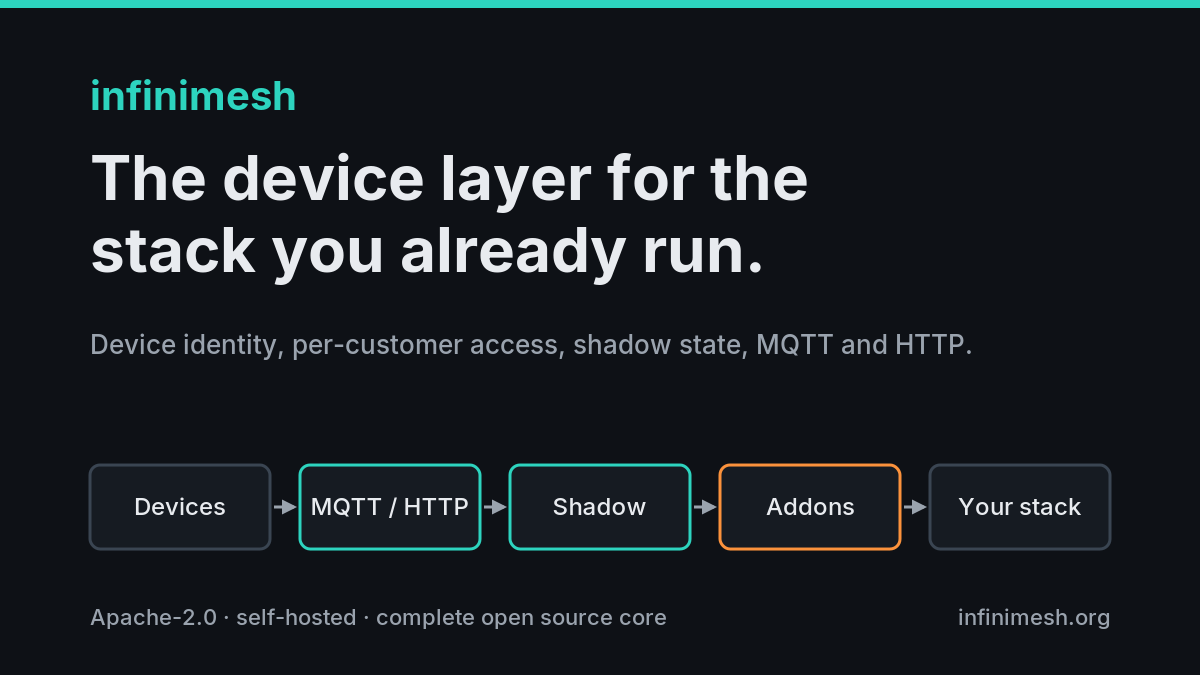
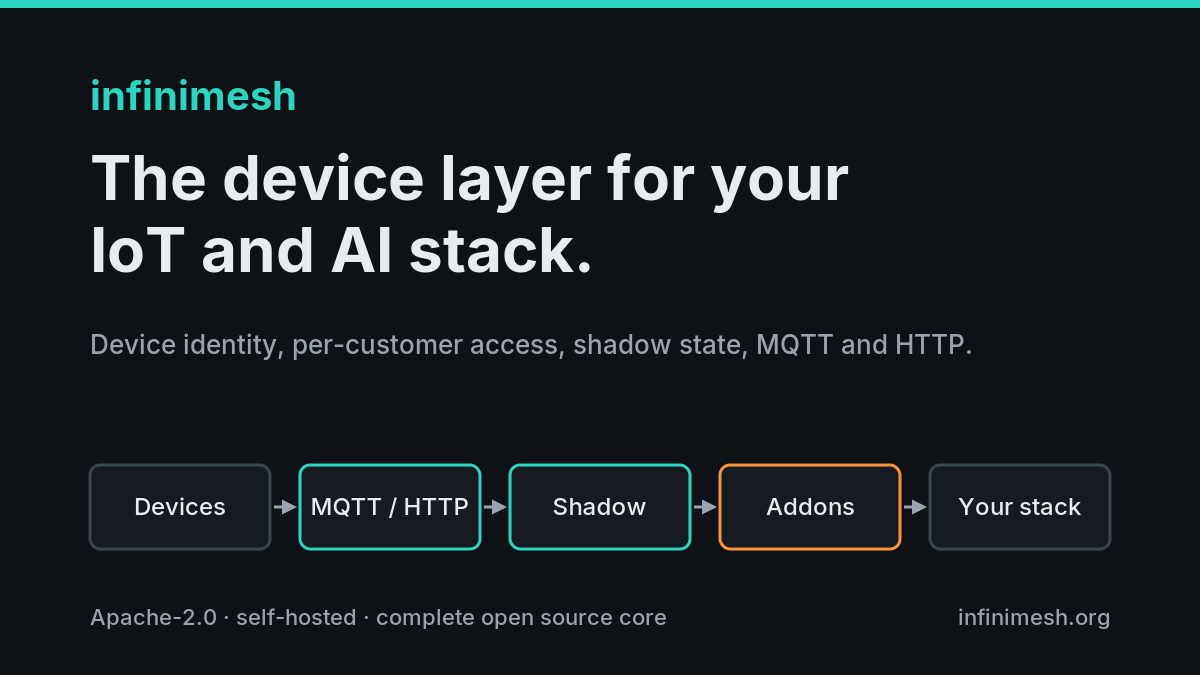
Position as the device layer for your IoT and AI stack, add AI ready section

Changed region(s): [[0.0617, 0.3111, 0.6475, 0.4356], [0.5858, 0.2178, 0.7092, 0.3111]]

diff --git a/index.html b/index.html
@@ -3,7 +3,7 @@
 <head>
 <meta charset="utf-8">
 <meta name="viewport" content="width=device-width, initial-scale=1">
-<title>infinimesh: the open source device layer for the stack you already run</title>
+<title>infinimesh: the open source device layer for your IoT and AI stack</title>
 <meta name="description" content="infinimesh is an Apache-2.0, self-hosted IoT backend in Go. Device identity, per-customer and per-partner access, shadow state, MQTT 3.1.1/5 and HTTP. Addons stream to Kafka, Postgres, InfluxDB, webhooks and more.">
 <link rel="icon" href="/favicon.ico" sizes="any">
 <link rel="icon" href="/favicon.png" type="image/png">
@@ -12,22 +12,22 @@
 <meta name="color-scheme" content="light dark">
 <meta property="og:type" content="website">
 <meta property="og:site_name" content="infinimesh">
-<meta property="og:title" content="infinimesh: the device layer for the stack you already run">
-<meta property="og:description" content="Apache-2.0, self-hosted IoT backend. Device identity, access per customer and partner, shadow state, MQTT and HTTP. The open source core is complete and free.">
+<meta property="og:title" content="infinimesh: the device layer for your IoT and AI stack">
+<meta property="og:description" content="The device layer for your IoT and AI stack. Apache-2.0, self-hosted IoT backend. Device identity, access per customer and partner, shadow state, MQTT and HTTP. The open source core is complete and free.">
 <meta property="og:url" content="https://infinimesh.org/">
 <meta property="og:image" content="https://infinimesh.org/social/og-image.png">
 <meta property="og:image:width" content="1200"><meta property="og:image:height" content="630">
-<meta property="og:image:alt" content="infinimesh: the device layer for the stack you already run. Apache-2.0.">
+<meta property="og:image:alt" content="infinimesh: the device layer for your IoT and AI stack. Apache-2.0.">
 <meta name="twitter:card" content="summary_large_image">
-<meta name="twitter:title" content="infinimesh: the device layer for the stack you already run">
-<meta name="twitter:description" content="Apache-2.0, self-hosted IoT backend. Device identity, access per customer and partner, shadow state, MQTT and HTTP. The open source core is complete and free.">
+<meta name="twitter:title" content="infinimesh: the device layer for your IoT and AI stack">
+<meta name="twitter:description" content="The device layer for your IoT and AI stack. Apache-2.0, self-hosted IoT backend. Device identity, access per customer and partner, shadow state, MQTT and HTTP. The open source core is complete and free.">
 <meta name="twitter:image" content="https://infinimesh.org/social/twitter-card.png">
 <link rel="alternate" type="text/plain" href="/llms.txt" title="llms.txt">
 <script type="application/ld+json">
 [
 {"@context":"https://schema.org","@type":"Organization","@id":"https://infinimesh.org/#org","name":"infinimesh","url":"https://infinimesh.org/","logo":"https://infinimesh.org/images/logo_03.png","sameAs":["https://github.com/infinimesh"]},
-{"@context":"https://schema.org","@type":"SoftwareSourceCode","name":"infinimesh core","codeRepository":"https://github.com/infinimesh/core","programmingLanguage":"Go","license":"https://www.apache.org/licenses/LICENSE-2.0","author":{"@id":"https://infinimesh.org/#org"},"description":"Self-hosted IoT backend: device identity, permission graph, shadow state, MQTT 3.1.1/5 and HTTP."},
-{"@context":"https://schema.org","@type":"SoftwareApplication","name":"infinimesh","applicationCategory":"DeveloperApplication","operatingSystem":"Linux, Docker, Kubernetes","offers":{"@type":"Offer","price":"0","priceCurrency":"EUR"},"license":"https://www.apache.org/licenses/LICENSE-2.0","url":"https://infinimesh.org/"},
+{"@context":"https://schema.org","@type":"SoftwareSourceCode","name":"infinimesh core","codeRepository":"https://github.com/infinimesh/core","programmingLanguage":"Go","license":"https://www.apache.org/licenses/LICENSE-2.0","author":{"@id":"https://infinimesh.org/#org"},"description":"The device layer for your IoT and AI stack. Self-hosted IoT backend: device identity, permission graph, shadow state, MQTT 3.1.1/5 and HTTP."},
+{"@context":"https://schema.org","@type":"SoftwareApplication","name":"infinimesh","description":"The device layer for your IoT and AI stack.","applicationCategory":"DeveloperApplication","operatingSystem":"Linux, Docker, Kubernetes","offers":{"@type":"Offer","price":"0","priceCurrency":"EUR"},"license":"https://www.apache.org/licenses/LICENSE-2.0","url":"https://infinimesh.org/"},
 {"@context":"https://schema.org","@type":"FAQPage","mainEntity":[
 {"@type":"Question","name":"Is any feature held back for a paid edition of infinimesh?","acceptedAnswer":{"@type":"Answer","text":"No. The open source core is complete and free. infinimesh is Apache-2.0 and the whole platform, including per-customer and per-partner access, is in the open source repos."}},
 {"@type":"Question","name":"Can devices send data without MQTT?","acceptedAnswer":{"@type":"Answer","text":"Yes. Devices can send their own JSON with POST /v1/ingest and a device token, and read desired state with GET /v1/ingest/desired. It lands in the same shadow as MQTT and reaches the same addons."}},
@@ -56,11 +56,11 @@ footer{padding:32px 24px;color:var(--mute);font-size:14px}
 </style>
 </head>
 <body>
-<header><a class="brand" href="/"><img src="/images/logo_03.png" alt="infinimesh" width="163" height="32" style="vertical-align:middle"></a><nav><a href="#how">How it works</a><a href="#access">Access</a><a href="#addons">Addons</a><a href="#compare">Compare</a><a href="#start">Quickstart</a><a href="https://github.com/infinimesh/docs">Docs</a><a href="/api/">API</a><a href="https://github.com/infinimesh/core">GitHub</a></nav></header>
+<header><a class="brand" href="/"><img src="/images/logo_03.png" alt="infinimesh" width="163" height="32" style="vertical-align:middle"></a><nav><a href="#how">How it works</a><a href="#access">Access</a><a href="#addons">Addons</a><a href="#ai">AI</a><a href="#compare">Compare</a><a href="#start">Quickstart</a><a href="https://github.com/infinimesh/docs">Docs</a><a href="/api/">API</a><a href="https://github.com/infinimesh/core">GitHub</a></nav></header>
 <main>
 <section>
 <p class="kicker">Apache-2.0 · self-hosted · written in Go</p>
-<h1>The device layer for the stack you already run.</h1>
+<h1>The device layer for your IoT and AI stack.</h1>
 <p class="lede">infinimesh handles device identity, access and state. Your data goes to the tools you already use: Kafka, Postgres, InfluxDB, a webhook. No dashboard you have to adopt. The open source core is complete and free. No feature is held back for a paid tier.</p>
 <a class="btn p" href="#start">Run it in 5 commands</a><a class="btn" href="https://github.com/infinimesh/docs">Device examples</a><a class="btn" href="https://github.com/infinimesh/core">Source on GitHub</a>
 </section>
@@ -131,6 +131,17 @@ footer{padding:32px 24px;color:var(--mute);font-size:14px}
 <div class="card"><h3>Elasticsearch, Snowflake, SAP HANA</h3><p>Search and warehouse sinks.</p></div>
 <div class="card"><h3>S3, GCS, Azure Blob</h3><p>Files per device in object storage.</p></div>
 </div>
+</section>
+
+<section id="ai">
+<h2>AI ready</h2>
+<p>AI agents and LLMs need device data with the same access rules as people. infinimesh has that model already. Device state will be available to AI agents over MCP and to any LLM through addons, scoped by the same permission graph. An agent sees only the devices its token can see.</p>
+<p>You can run models locally with vLLM or Ollama, so device data stays on your servers. Hosted APIs work too, if you choose them.</p>
+<div class="grid">
+<div class="card"><h3>MCP server <span class="tag">coming soon</span></h3><p>Read device state and set desired state from an AI agent, within the token's permissions. Not built yet.</p></div>
+<div class="card"><h3>LLM addon <span class="tag">coming soon</span></h3><p>Send device state to any OpenAI-compatible API: vLLM, Ollama, Mistral, OpenAI, Anthropic, Gemini. Not built yet.</p></div>
+</div>
+<p>Neither exists today. Until they ship, use the webhook or MQTT bridge addon to feed your own agent.</p>
 </section>
 
 <section id="compare">
